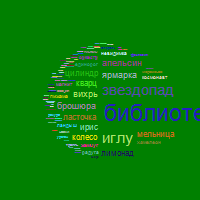
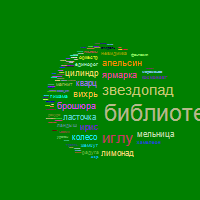
colorconverter

Changed region(s): [[0.21, 0.21, 1.0, 0.81]]

diff --git a/TagsCloud/ConsoleCommands/Conventers/ColorTypeConverter.cs b/TagsCloud/ConsoleCommands/Conventers/ColorTypeConverter.cs
@@ -1,13 +1,14 @@
 using System.ComponentModel;
 using System.Drawing;
+using ArgumentException = System.ArgumentException;
 
 namespace TagsCloud.ConsoleCommands.Conventers;
 
-public class SizeTypeConverter : TypeConverter
+public class ColorTypeConverter:TypeConverter
 {
     public override bool CanConvertFrom(ITypeDescriptorContext context, Type sourceType)
     {
-        return sourceType == typeof(string) || base.CanConvertFrom(context, sourceType);
+        return sourceType == typeof(Color) || base.CanConvertFrom(context, sourceType);
     }
 
     public override object ConvertFrom(ITypeDescriptorContext context, System.Globalization.CultureInfo culture,
@@ -15,15 +16,14 @@ public class SizeTypeConverter : TypeConverter
     {
         if (value is string stringValue)
         {
-            string[] sizeValues = stringValue.Split(',');
-            if (sizeValues.Length == 2 &&
-                int.TryParse(sizeValues[0], out int width) &&
-                int.TryParse(sizeValues[1], out int height))
+            if (!Color.FromName(stringValue).IsKnownColor)
             {
-                return new Size(width, height);
+                throw new ArgumentException();
             }
+
+            return Color.FromName(stringValue);
         }
 
-        throw new Exception();
+        throw new ArgumentException();
     }
 }

diff --git a/TagsCloud/TagsCloudPainters/SimplePainter.cs b/TagsCloud/TagsCloudPainters/SimplePainter.cs
@@ -12,7 +12,7 @@ public class SimplePainter : IPainter
     private readonly IColorGenerator _colorGenerator;
     private readonly string _filename;
     private readonly Size _imageSize;
-    private readonly string _color;
+    private readonly Color _color;
 
     public SimplePainter(IColorGenerator colorGenerator, Options options)
     {
@@ -26,11 +26,7 @@ public class SimplePainter : IPainter
     {
         var tags = cloud.Tags;
         var cloudSize = cloud.CloudSize;
-        if (!Color.FromName(_color).IsKnownColor)
-        {
-            return Result.Fail<None>($"There is no color with this name: {_color}");
-        }
-        var backgroundColor = Color.FromName(_color);
+
 
         if (!cloud.Tags.Any())
             return Result.Fail<None>("Painter can't draw empty tag collection");
@@ -41,7 +37,7 @@ public class SimplePainter : IPainter
         
         using var bitmap = new Bitmap(cloudSize.Width, cloudSize.Height);
         using var g = Graphics.FromImage(bitmap);
-        g.Clear(backgroundColor);
+        g.Clear(_color);
         foreach (var tag in tags)
         {
             var color = _colorGenerator.GetTagColor(tag).GetValueOrThrow();

diff --git a/TagsCloudTests/Painters/SimpleCloudPainterTests.cs b/TagsCloudTests/Painters/SimpleCloudPainterTests.cs
@@ -14,7 +14,7 @@ public class SimpleCloudPainterTests
     public void SetUp()
     {
         var projectDirectory = Directory.GetParent(Environment.CurrentDirectory).Parent.FullName.Replace("\\bin", "");
-        var options = new Options() { OutputFile = Path.Combine(projectDirectory, "Painters", "images", FileName), Background = "Red"};
+        var options = new Options() { OutputFile = Path.Combine(projectDirectory, "Painters", "images", FileName), Background = Color.Aqua};
         testFilePath = options.OutputFile;
         var color = new Mock<IColorGenerator>();
         color.Setup(c => c.GetTagColor(It.IsAny<Tag>())).Returns(new Result<Color>(null,Color.Black));

diff --git a/TagsCloud/Program.cs b/TagsCloud/Program.cs
@@ -9,8 +9,9 @@ public class Program
 {
     static void Main(string[] args)
     {
-        var options = CommandLine.Parser.Default.ParseArguments<Options>(args).Value;
-        var container = ContainerConfig.Configure(options);
+        var options = CommandLine.Parser.Default.ParseArguments<Options>(args);
+        Console.WriteLine(options.Errors.Any());
+        var container = ContainerConfig.Configure(options.Value);
 
         using var scope = container.BeginLifetimeScope();
         var app = scope.Resolve<IApp>();

diff --git a/TagsCloud/ConsoleCommands/Options.cs b/TagsCloud/ConsoleCommands/Options.cs
@@ -23,8 +23,7 @@ public class Options
     public Size ImageSize { get; set; }
 
     [Option('b', "background", Default = "Empty", HelpText = "Set tagsCloud output background color")]
-    public string Background { get; set; }
-
-    [Option('t', "parts", Default = new string[] { "sdsd", "sfdfd" }, HelpText = "Word available parts of speech.")]
-    public IEnumerable<string> PartsOfSpeech { get; set; }
+    [TypeConverter(typeof(ColorTypeConverter))]
+    public Color Background { get; set; }
+    
 }

diff --git a/TagsCloud/WordsProviders/WordsProvider.cs b/TagsCloud/WordsProviders/WordsProvider.cs
@@ -25,6 +25,6 @@ public class WordsProvider : IWordsProvider
             .Where(g => _validator.IsWordValid(g.Key).GetValueOrThrow())
             .OrderByDescending(g2 => g2.Count())
             .ToDictionary(group => group.Key, group => group.Count());
-        return Result.Ok(dict);
+        return dict;
     }
 }

diff --git a/TagsCloud/WordFontCalculators/SimpleWordFontCalculator.cs b/TagsCloud/WordFontCalculators/SimpleWordFontCalculator.cs
@@ -28,6 +28,6 @@ public class SimpleWordFontCalculator : IWordFontCalculator
         }
         var result = wordsDictionary.ToDictionary(entry => entry.Key, 
             entry => new Font(_font, entry.Value));
-        return Result.Ok(result);
+        return result;
     }
 }

diff --git a/TagsCloud/ColorGenerators/RandomColorGenerator.cs b/TagsCloud/ColorGenerators/RandomColorGenerator.cs
@@ -11,6 +11,6 @@ public class RandomColorGenerator : IColorGenerator
     public Result<Color> GetTagColor(Tag tag)
     {
         var color =Color.FromArgb(Random.Next(256), Random.Next(256), Random.Next(256));
-        return Result.Ok(color);
+        return color;
     }
 }

diff --git a/TagsCloud/WordValidators/SimpleWordValidator.cs b/TagsCloud/WordValidators/SimpleWordValidator.cs
@@ -5,6 +5,6 @@ public class SimpleWordValidator : IWordValidator
     public Result<bool> IsWordValid(string word)
     {
         var isValid =  word.Length > 3;
-        return Result.Ok<bool>(isValid);
+        return isValid;
     }
 }

diff --git a/TagsCloud/Layouters/CircularCloudLayouter.cs b/TagsCloud/Layouters/CircularCloudLayouter.cs
@@ -50,7 +50,7 @@ public class CircularCloudLayouter : ILayouter
         }
 
         var cloud = new Cloud(_tags, GetImageSize());
-        return Result.Ok(cloud);
+        return cloud;
     }
 
     private Size GetImageSize()

diff --git a/TagsCloud/Distributors/SpiralDistributor.cs b/TagsCloud/Distributors/SpiralDistributor.cs
@@ -36,6 +36,6 @@ public class SpiralDistributor : IDistributor
         }
 
         var point = new Point((int)x, (int)y);
-        return Result.Ok(point);
+        return point;
     }
 }
